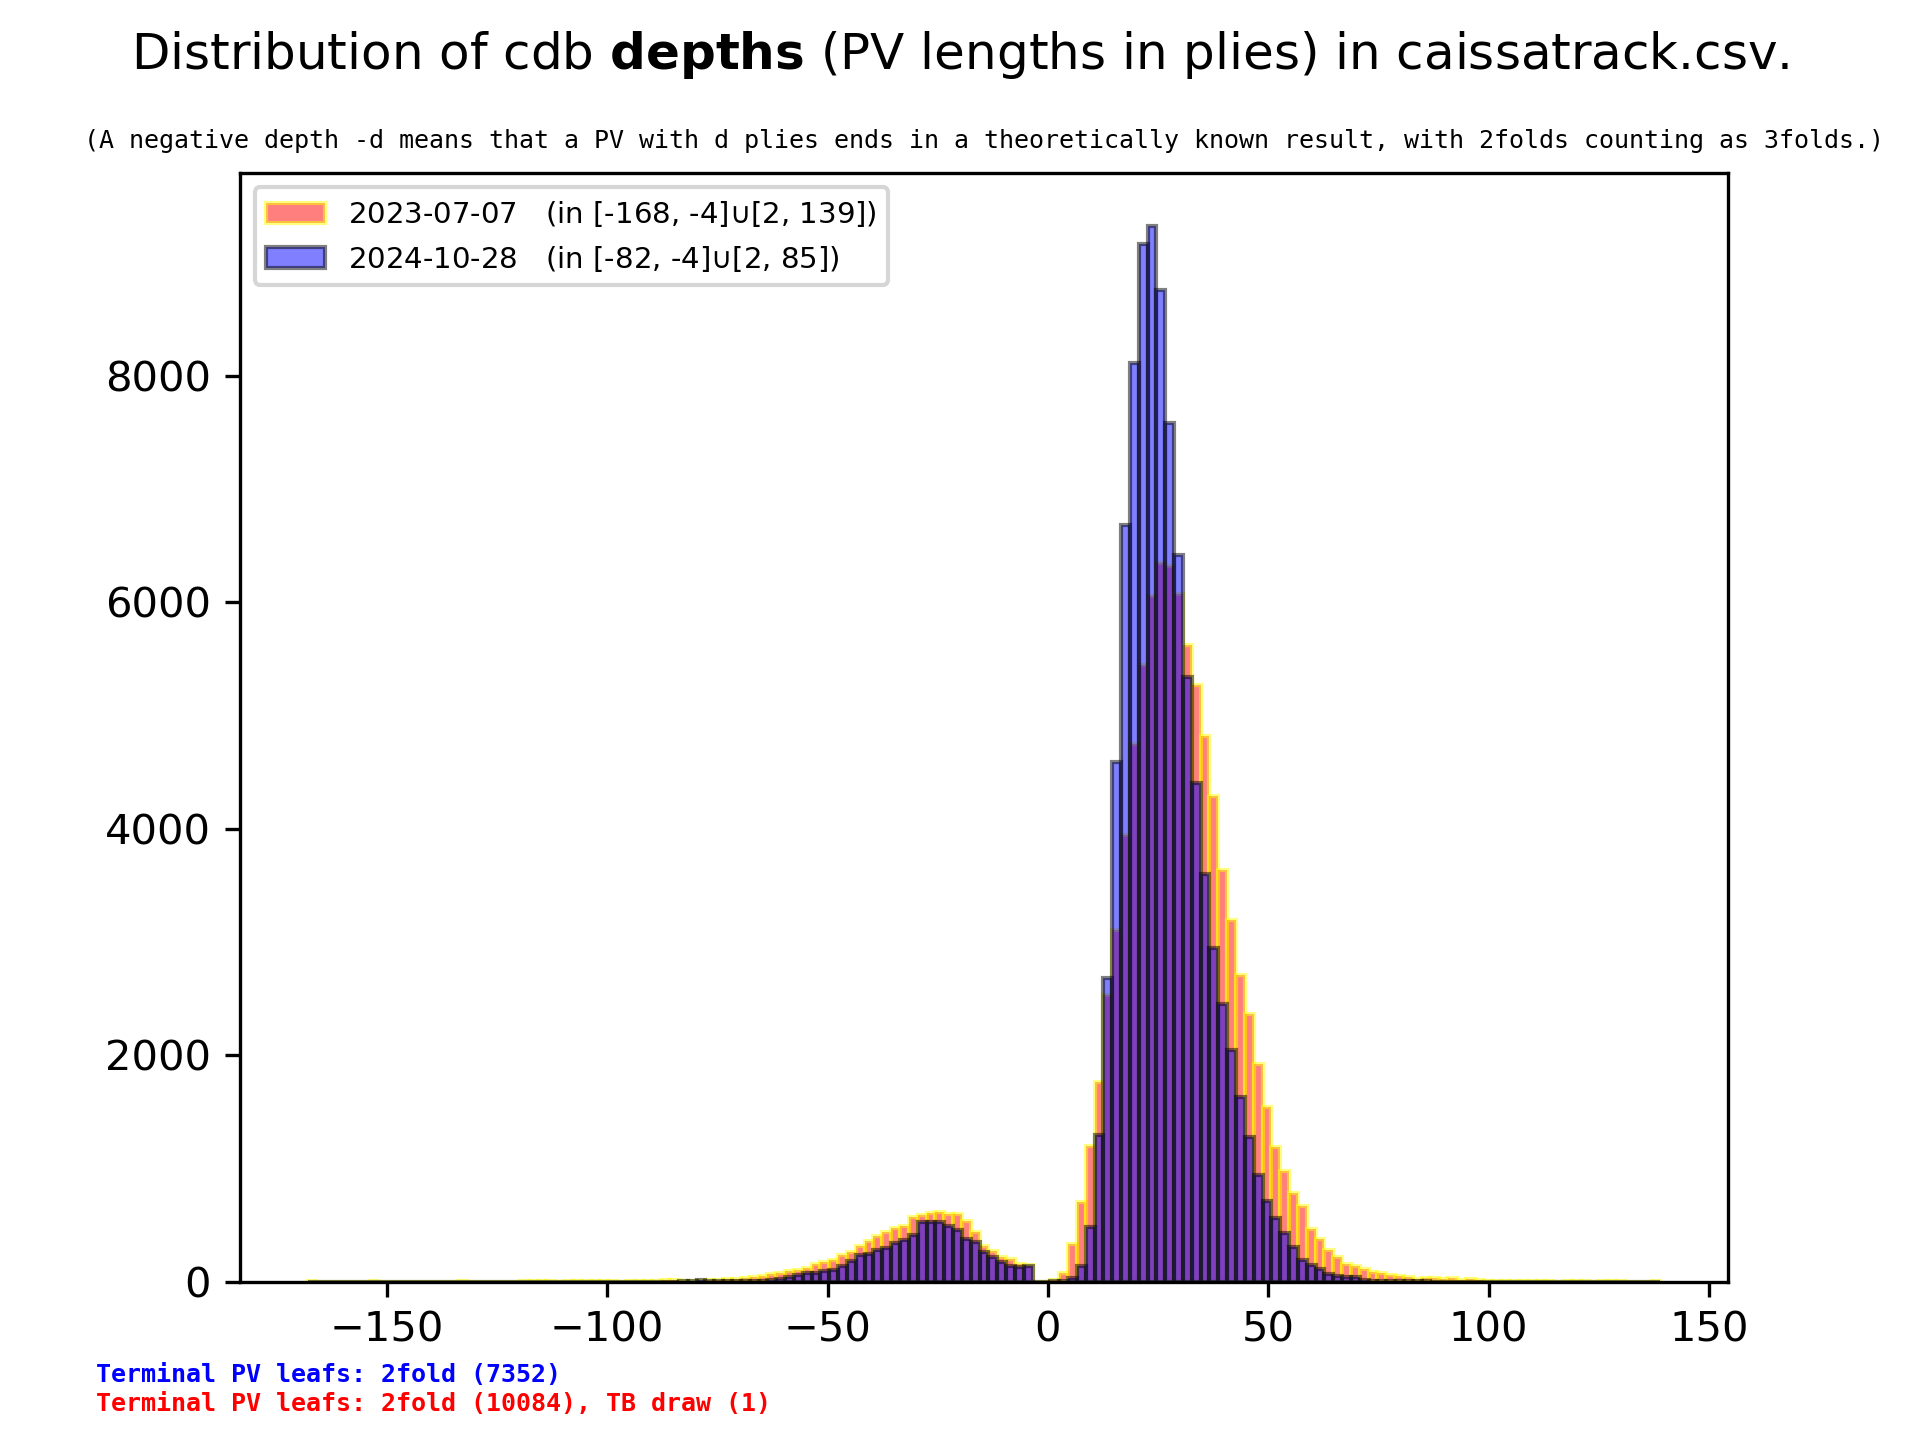
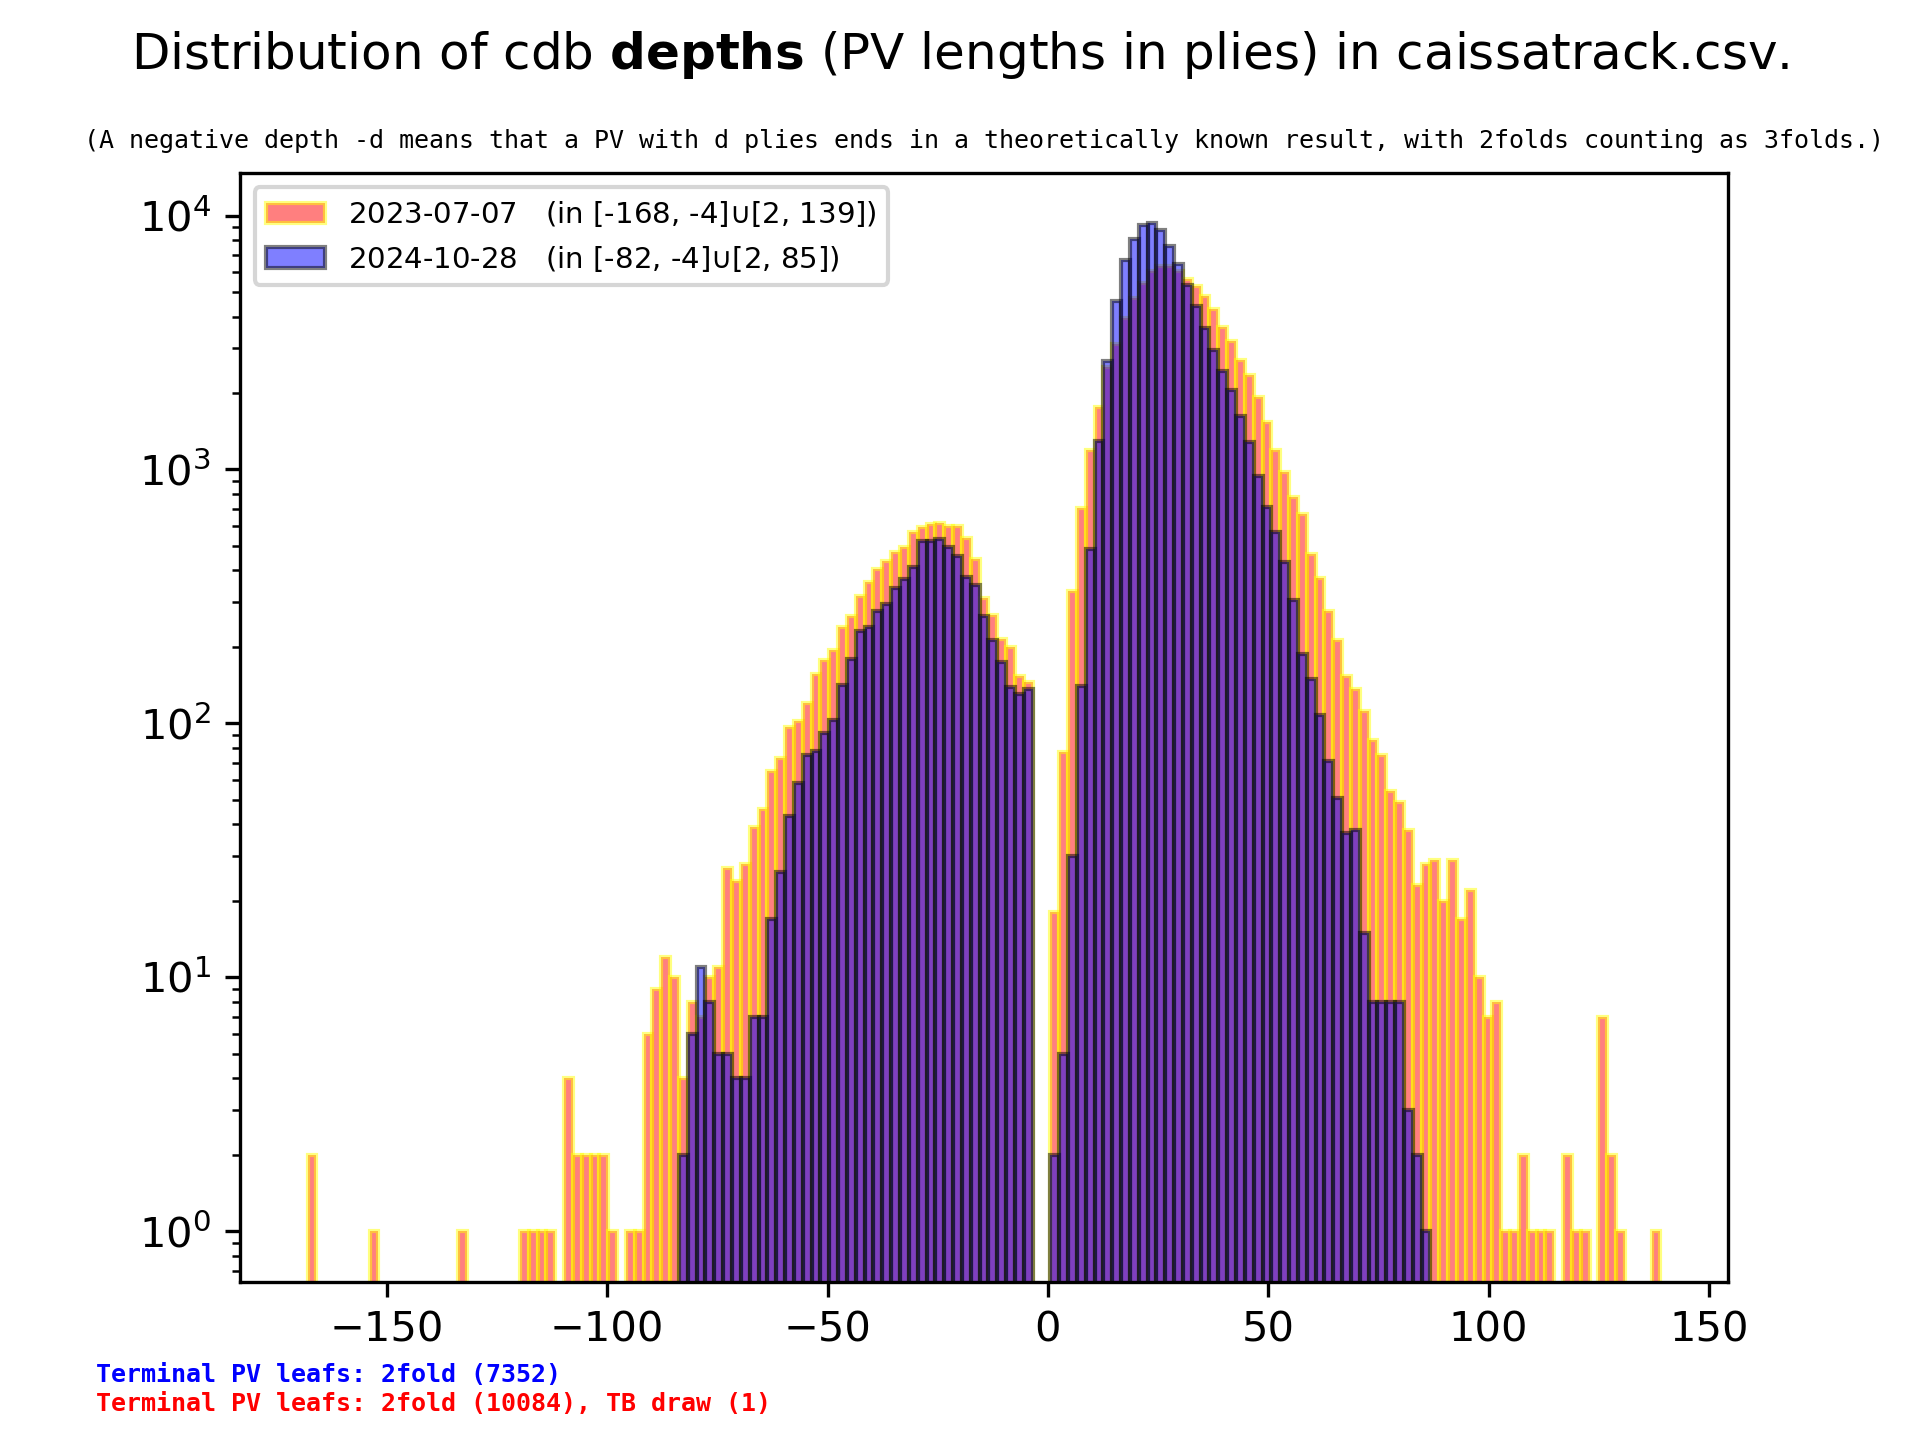
fix logplot

diff --git a/plotdata.py b/plotdata.py
@@ -430,6 +430,7 @@ if __name__ == "__main__":
     )
     parser.add_argument(
         "--logplot",
+        "-l",
         action="count",
         default=0,
         help="Use logplot for the distribution plot. Once just eval plot, twice also PV depth plot.",
